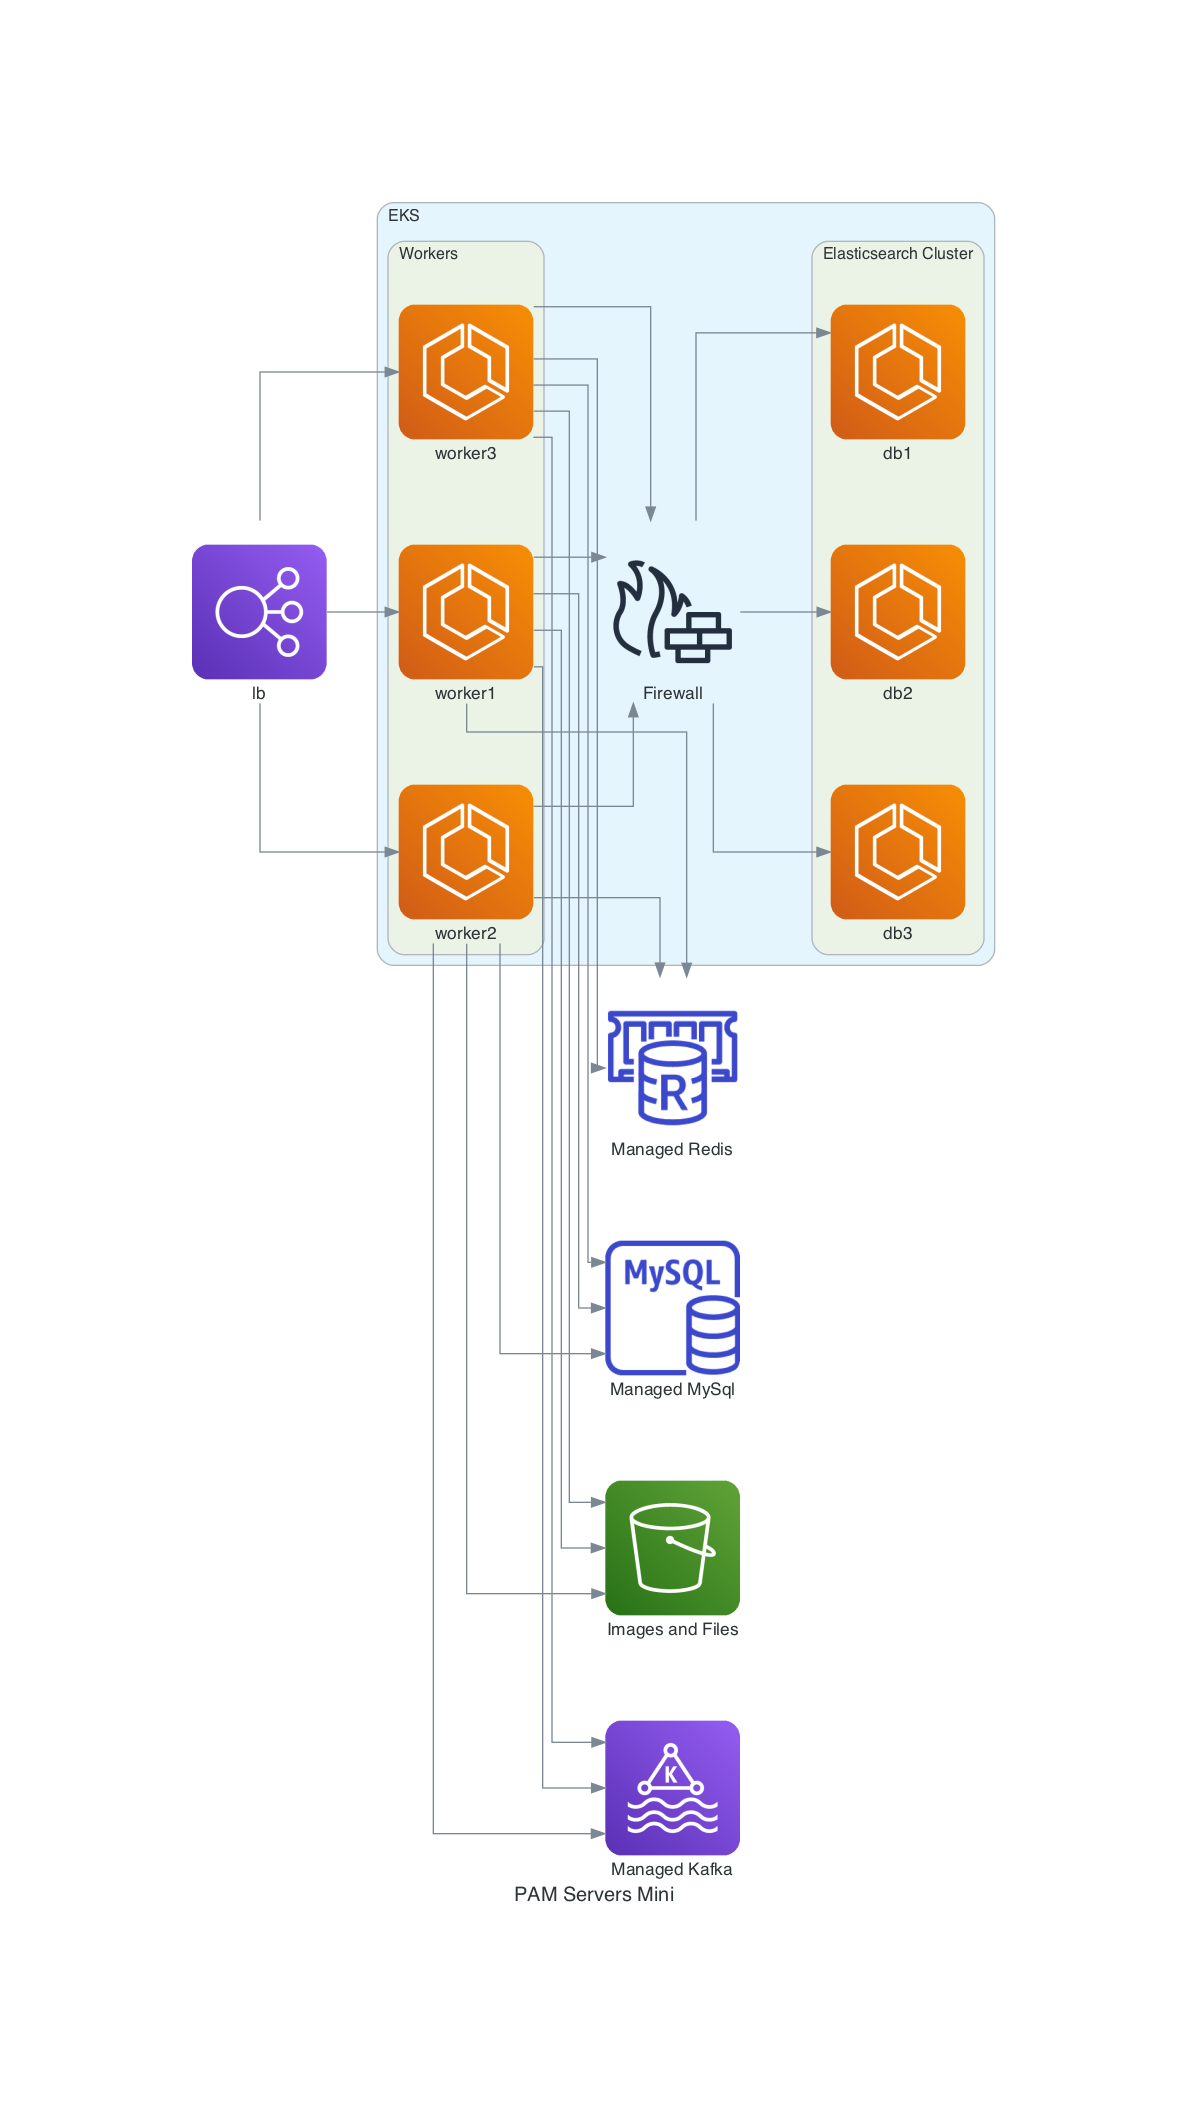
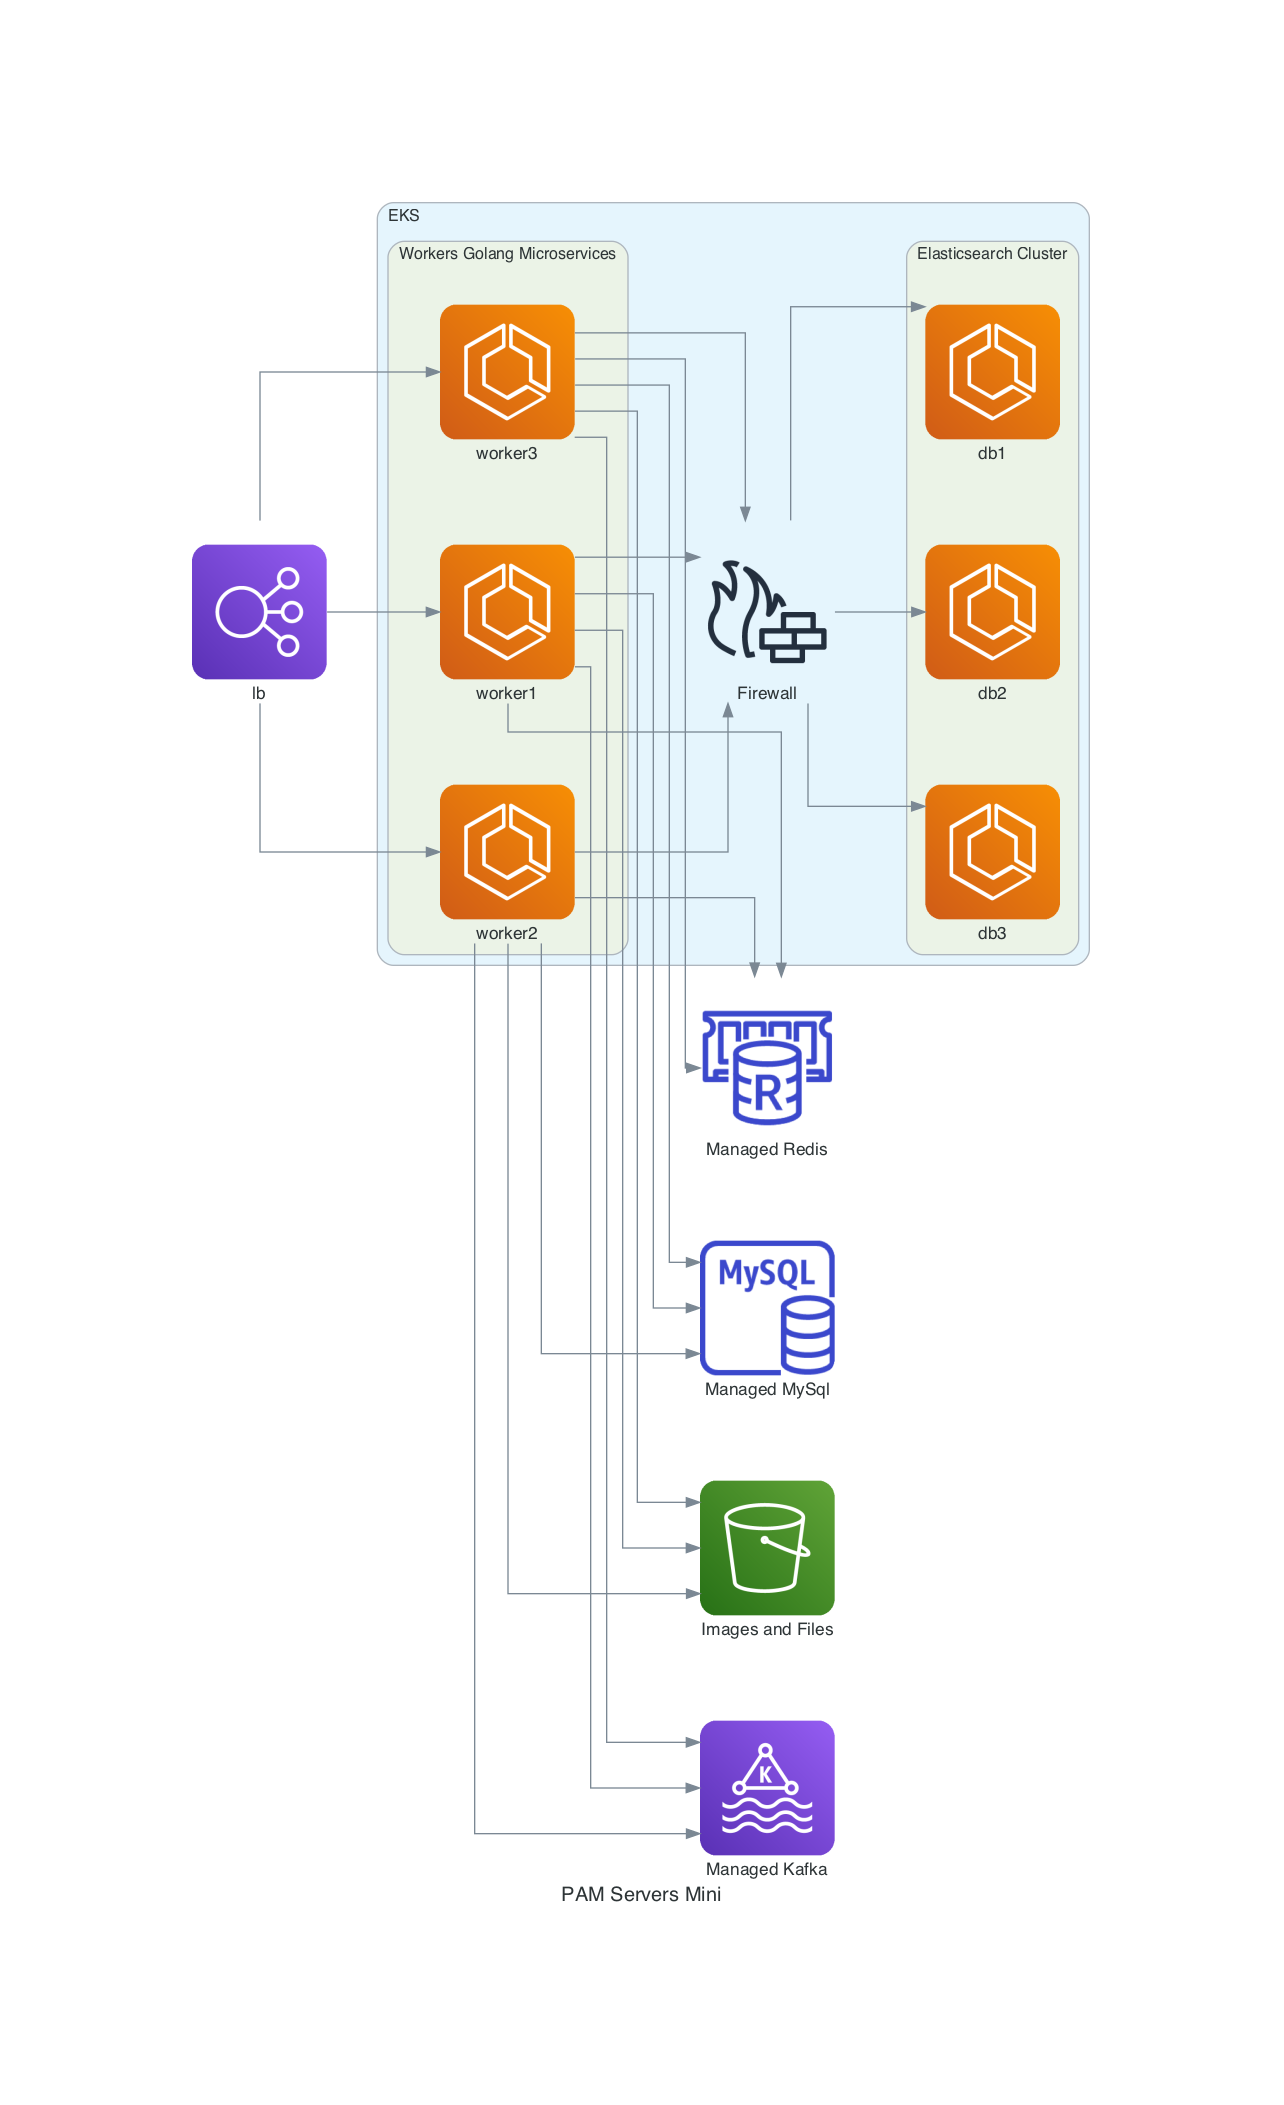
Update workers name

Changed region(s): [[0.1245, 0.0926, 0.6535, 0.9264], [0.6846, 0.0926, 0.8713, 0.4632], [0.4045, 0.0926, 0.4668, 0.1235]]

diff --git a/pam-servers.py b/pam-servers.py
@@ -12,7 +12,7 @@ with Diagram("PAM Servers Mini", show=False):
     lb = ELB("lb")
 
     with Cluster("EKS"):
-        with Cluster("Workers"):
+        with Cluster("Workers Golang Microservices"):
             workers = [ECS("worker1"),
                        ECS("worker2"),
                        ECS("worker3")]
@@ -40,7 +40,7 @@ with Diagram("PAM Servers Basic", show=False):
     lb = ELB("lb")
 
     with Cluster("EKS"):
-        with Cluster("Workers"):
+        with Cluster("Workers Golang Microservices"):
             workers = [ECS("worker1"),
                        ECS("worker2"),
                        ECS("worker3")]
@@ -68,7 +68,7 @@ with Diagram("PAM Servers Pro", show=False):
     lb = ELB("lb")
 
     with Cluster("EKS"):
-        with Cluster("Workers"):
+        with Cluster("Workers Golang Microservices"):
             workers = [ECS("worker1"),
                        ECS("worker2"),
                        ECS("worker3")]
@@ -98,7 +98,7 @@ with Diagram("PAM Servers Pro XL", show=False):
     lb = ELB("lb")
 
     with Cluster("EKS"):
-        with Cluster("Workers"):
+        with Cluster("Workers Golang Microservices"):
             workers = [ECS("worker1"),
                        ECS("worker2"),
                        ECS("worker3"),
@@ -132,7 +132,7 @@ with Diagram("PAM Servers Pro 2XL", show=False):
     lb = ELB("lb")
 
     with Cluster("EKS"):
-        with Cluster("Workers"):
+        with Cluster("Workers Golang Microservices"):
             workers = [ECS("worker1"),
                        ECS("worker2"),
                        ECS("worker3"),
